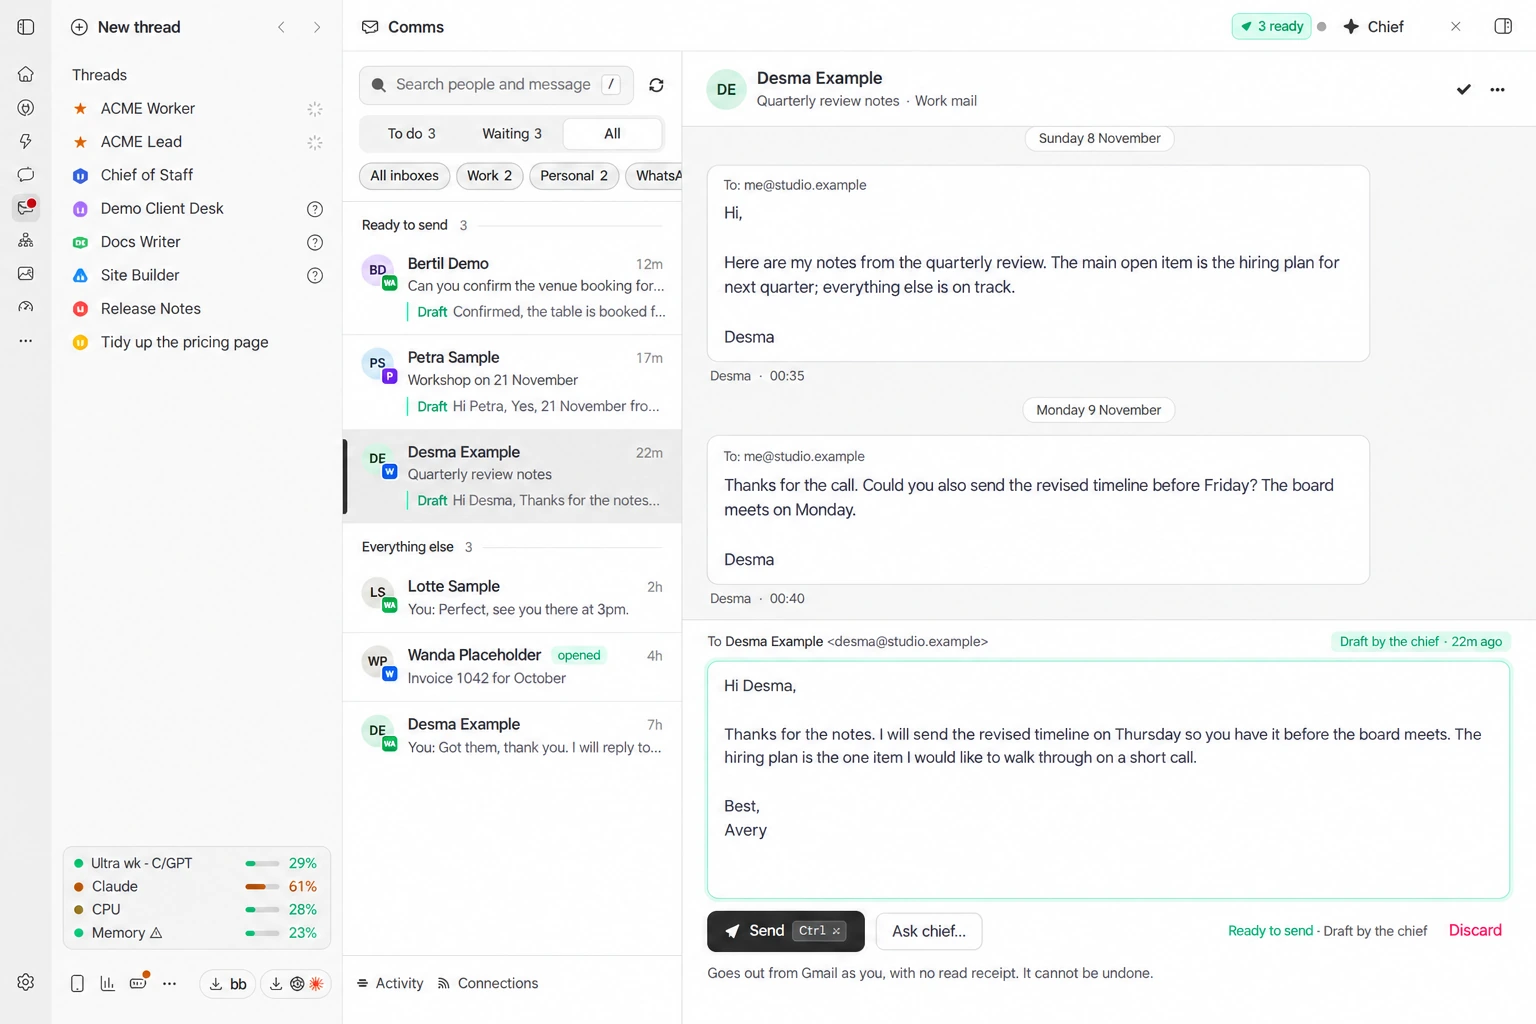
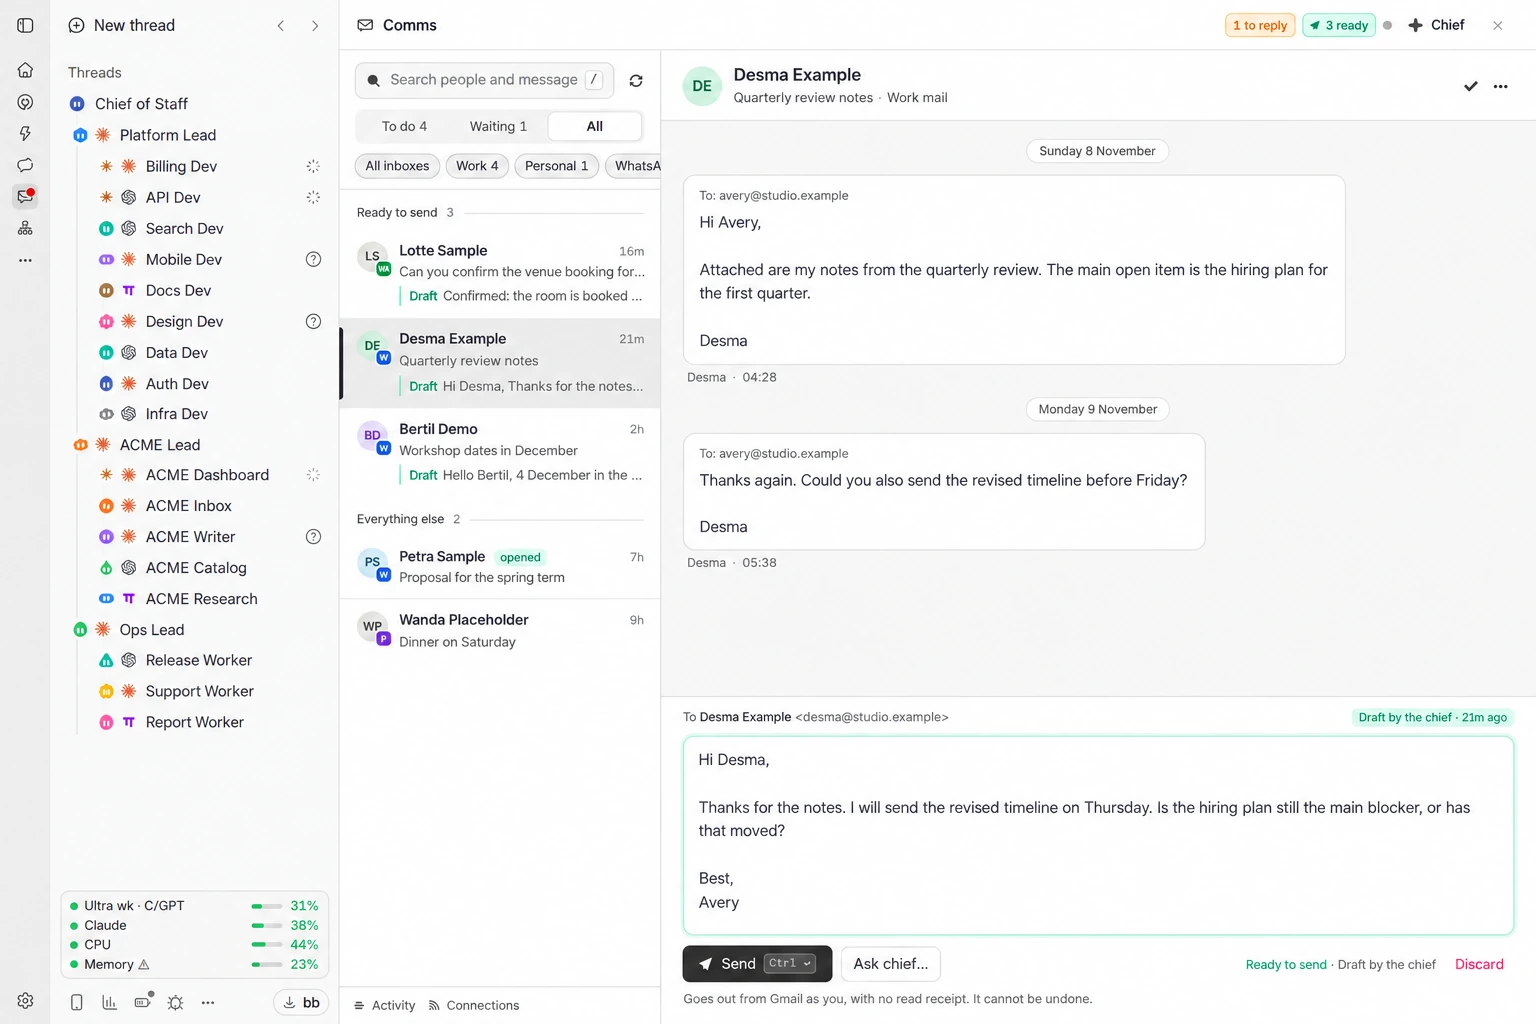
README: show the chief, managers and workers hierarchy; new desktop screenshots, no phone images

diff --git a/README.md b/README.md
@@ -12,11 +12,39 @@ page is the map.
 Licence: MIT (see `LICENSE`). `usage` is based on an MIT plugin by another author and keeps that
 author's attribution.
 
-All screenshots in this README show invented data: the people, projects, mail, accounts and usage
-numbers do not exist. They were taken in a throwaway bb with made-up content (only the small CPU and
-memory readings in the sidebar strip are a real machine's load).
+<table>
+<tr>
+<td><img src="docs/screenshots/sidebar-tree-light.webp" alt="The sidebar as a tree: Chief of Staff, three managers, and a worker under each manager, with a face and a provider mark on every row" width="330"></td>
+<td><img src="docs/screenshots/sidebar-tree-dark.webp" alt="The same tree in the dark theme" width="330"></td>
+</tr>
+</table>
 
-![The chief's Board: a manager with a team, and workers reporting to the chief](docs/screenshots/chief-board-light.webp)
+## The hierarchy: chief, managers, workers
+
+The lead picture is bb's sidebar with the plugins installed. It is a tree, and the tree is the
+idea:
+
+- **The chief** ("Chief of Staff", top row) is one long-lived thread. You talk to it. It never does
+  the work itself: it decides who should, briefs them, and tells you only what needs you.
+- **Managers** ("Platform Lead", "ACME Lead", "Ops Lead") each own a team. A manager is a thread of
+  its own that breaks a topic up, briefs its workers and reports one summary upward. Use one per
+  client, product or area.
+- **Workers** ("Billing Dev", "ACME Inbox", "Release Worker" and so on) are reusable threads, one
+  per topic. A worker keeps its context, so you can send it more work next week. Each has its own
+  face, and a mark for the model provider it runs on.
+
+Every worker ends a turn with `Done:`, `Open:` and `Need:` lines. The chief and the managers read
+those lines, so you read one board instead of every thread. The rows show state at a glance: a
+working star, a question mark when a thread waits for an answer, a quiet dot when it is idle.
+
+The tree lines are bb's own thread nesting: the plugin links each worker to its manager and each
+manager to the chief when it creates them (`bb cos delegate`, or the chief does it for you).
+
+![The full window: the nested sidebar, the chief thread in the middle, and the Board on the right with each manager and its team](docs/screenshots/chief-board.webp)
+
+All screenshots in this README show invented data: the people, projects, threads, mail, accounts and
+usage numbers do not exist. They were taken in a throwaway bb with made-up content (only the small CPU
+and memory readings in the sidebar strip are a real machine's load).
 
 ## What is in it
 
@@ -32,30 +60,27 @@ memory readings in the sidebar strip are a real machine's load).
 
 ### Faces
 
-Each thread gets a face the first time it shows in the sidebar and keeps it. The sidebar reads
-at a glance: working, waiting for you, idle, done.
+Each thread gets a face the first time it shows in the sidebar and keeps it, so you tell threads
+apart by sight. Tree lines, faces, provider marks and state marks together:
 
-![The sidebar thread list with faces, working stars and question marks](docs/screenshots/faces-sidebar.webp)
+![A manager and its first workers: tree lines, faces, provider marks, working stars and question marks](docs/screenshots/faces-tree.webp)
 
-### The chief and its "For you" list
+### The chief's "For you" list
 
-The chief never does the work. It picks or creates a worker per topic, briefs it, and collects
-reports. Every worker ends a turn with `Done:`, `Open:` and `Need:` lines; the chief reads those
-and puts only what needs *you* on one list.
-
-![The For you list: decisions with buttons](docs/screenshots/chief-for-you.webp)
-
-The panel follows the theme and works on a phone.
-
-![The chief's Board in the dark theme](docs/screenshots/chief-board-dark.webp)
+The Board lists what each manager and worker reports. The **For you** tab is shorter: only the
+chief adds to it, one item at a time, and each item has buttons. Answer there, or from a shell with
+`bb cos board`.
 
 ### Mail and WhatsApp with approve-before-send
 
+Agents write drafts; you read them next to the conversation and press Send.
+
 ![Comms: conversations on the left, a conversation and the chief's draft on the right](docs/screenshots/comms-desktop.webp)
 
-![Comms on a phone](docs/screenshots/comms-phone.webp)
-
 ### The usage strip
+
+The strip at the bottom of the sidebar shows how much of each subscription window is used; click it
+for every window and when it resets.
 
 ![The usage popup: windows and reset times per account](docs/screenshots/usage-popup.webp)
 
